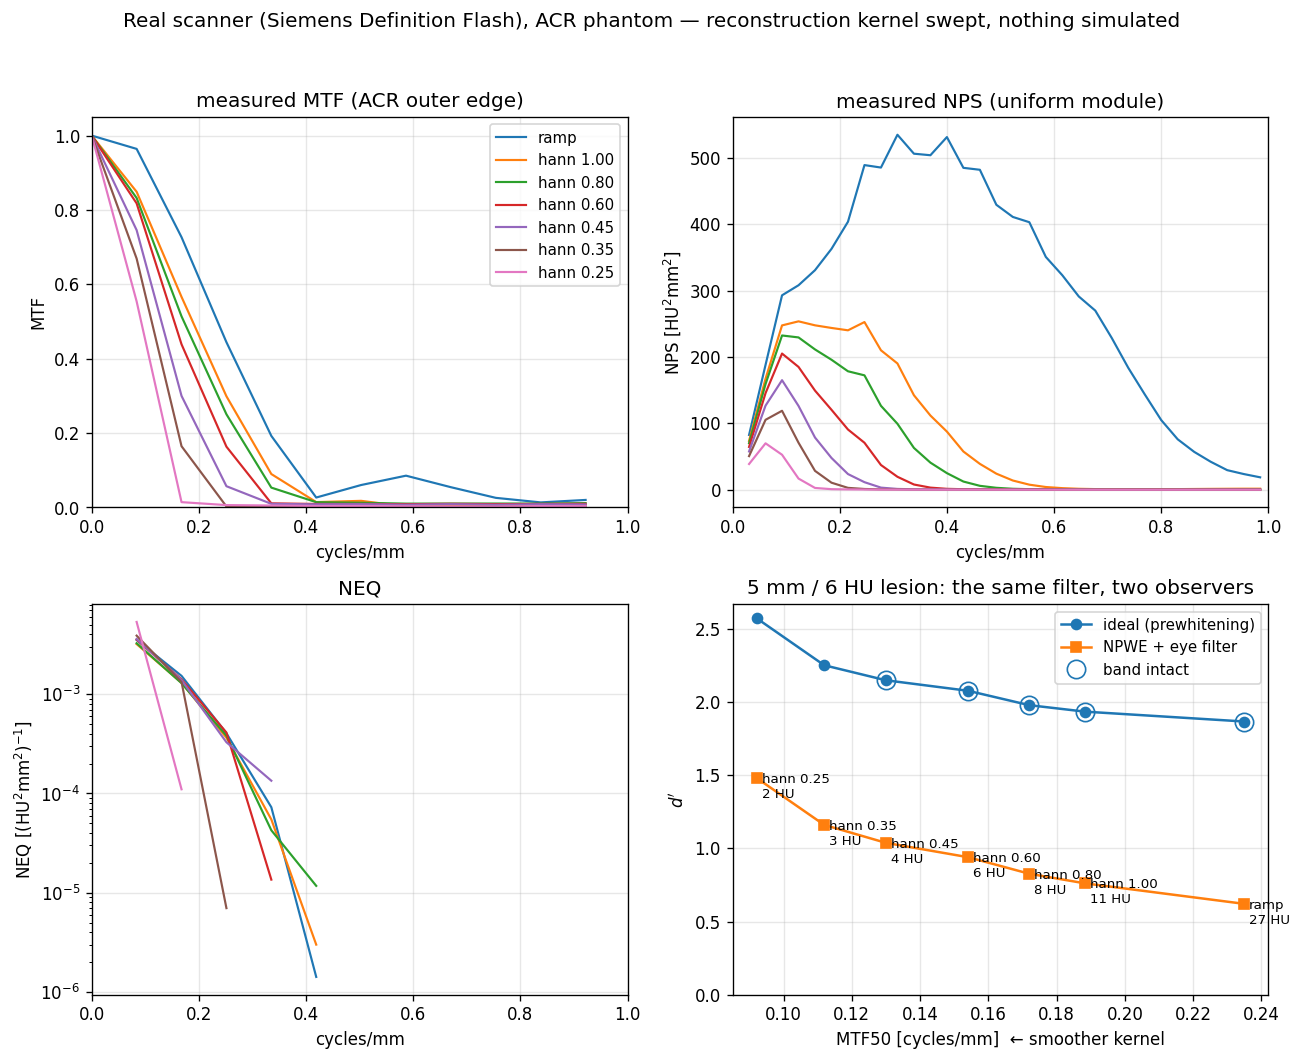
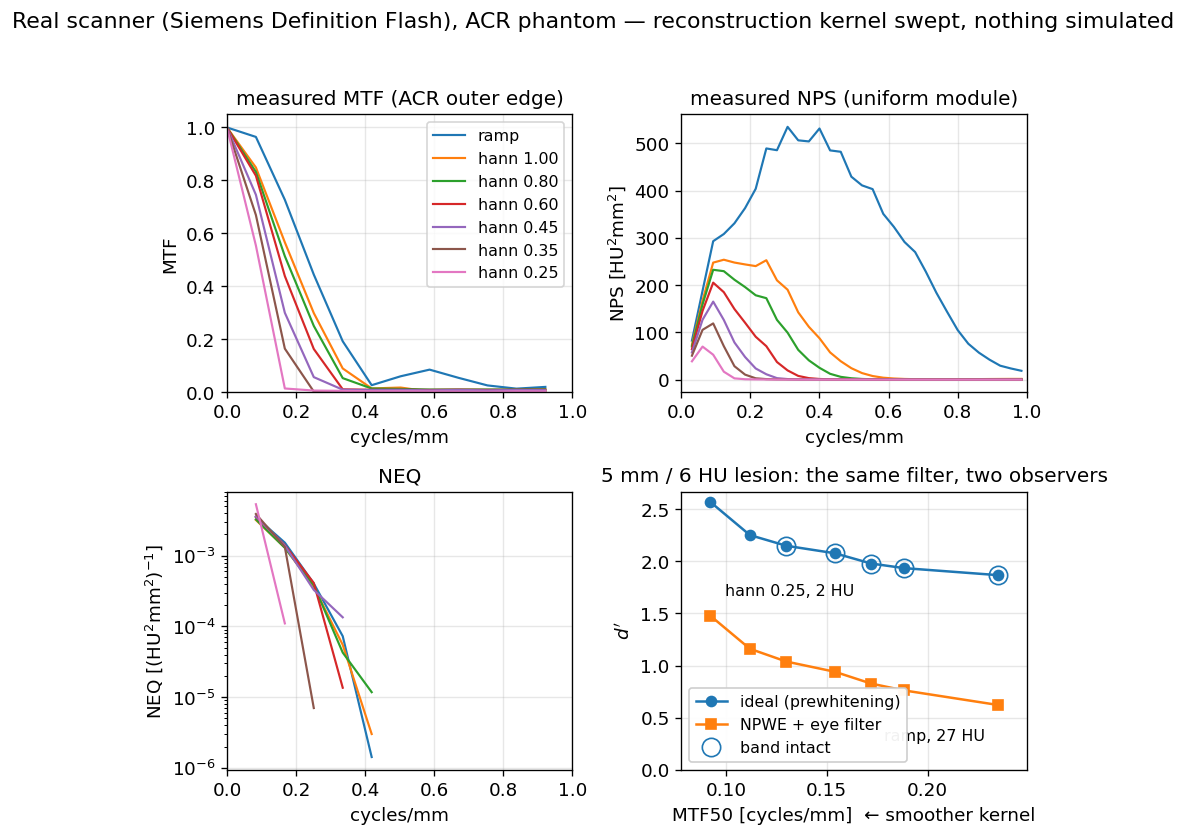
Make the atlas legible after reduction, not just at full size
At 11 inches wide the figure is scaled by 0.57 into a text column, so the 8 pt
per-point annotations landed under 5 pt and could not be read -- which is what
the author saw. Drawn at 7.8 x 6.8 inches the reduction is mild, and the type
is set explicitly: 11 pt base, 12 pt panel titles, 9.5 pt legends and labels.

The detectability panel then had three collisions that only appear once the
type is large enough to matter. Seven per-point annotations overlapped each
other and the legend, so only the two ends are labelled now; they carry the
range, and Table 2 of the manuscript carries all seven exactly. The legend
covered the ideal-observer curve wherever it was placed except the floor, so
it sits bottom-left. And both end labels were pushed off the axes because
rows[0] is the ramp, which is the *rightmost* point in MTF50, not the leftmost
-- the horizontal alignments were the wrong way round.

Layout only; no number changes.

diff --git a/examples/acr_atlas.py b/examples/acr_atlas.py
@@ -232,7 +232,8 @@ def main() -> int:
 
     (OUTDIR / "acr_atlas.json").write_text(json.dumps(rows, indent=2))
 
-    fig, axgrid = plt.subplots(2, 2, figsize=(11, 8.6))
+    plt.rcParams.update({"font.size": 11, "axes.titlesize": 12, "figure.dpi": 300})
+    fig, axgrid = plt.subplots(2, 2, figsize=(7.8, 6.8))
     axes = axgrid.ravel()
     for label, (f, m, nf, npsr, qf, q) in curves.items():
         axes[0].plot(f, m, lw=1.3, label=label)
@@ -242,7 +243,7 @@ def main() -> int:
     axes[0].set_ylabel("MTF")
     axes[0].set_xlim(0, 1)
     axes[0].set_ylim(0, 1.05)
-    axes[0].legend(fontsize=9)
+    axes[0].legend(fontsize=9.5)
     axes[0].grid(alpha=0.3)
     axes[0].set_title("measured MTF (ACR outer edge)")
     axes[1].set_xlabel("cycles/mm")
@@ -266,19 +267,29 @@ def main() -> int:
     axes[3].plot(mtf50, d_i, "o-", label="ideal (prewhitening)")
     axes[3].plot(mtf50, d_n, "s-", label="NPWE + eye filter")
     axes[3].plot(mtf50[intact], d_i[intact], "o", ms=11, mfc="none", mec="C0", label="band intact")
-    for r, x, y in zip(rows, mtf50, d_n, strict=True):
+    # Only the two ends are labelled. At a type size that survives reduction to a text
+    # column, seven annotations collide with each other and with the legend; the ends
+    # carry the range, and Table 2 of the manuscript carries all seven exactly.
+    # rows[0] is the ramp, which is the *rightmost* point (highest MTF50), and the
+    # last row is hann 0.25 at the left. Each label is pushed away from its own edge.
+    ends = ((0, -8, -14, "right", "top"), (len(rows) - 1, 9, 10, "left", "bottom"))
+    for idx, dx, dy, ha, va in ends:
+        r = rows[idx]
         axes[3].annotate(
-            f"{r['label']}\n{r['noise_sd']:.0f} HU",
-            (x, y),
-            fontsize=8,
+            f"{r['label']}, {r['noise_sd']:.0f} HU",
+            (mtf50[idx], d_n[idx]),
+            fontsize=9.5,
             textcoords="offset points",
-            xytext=(3, -12),
+            xytext=(dx, dy),
+            ha=ha,
+            va=va,
         )
     axes[3].set_xlabel("MTF50 [cycles/mm]  ← smoother kernel")
     axes[3].set_ylabel(r"$d'$")
     axes[3].set_ylim(0, None)
+    axes[3].margins(x=0.10)
     axes[3].grid(alpha=0.3)
-    axes[3].legend(fontsize=9)
+    axes[3].legend(fontsize=9.5, loc="lower left", framealpha=0.95)
     axes[3].set_title(
         f"{LESION_DIAMETER_MM:.0f} mm / {LESION_CONTRAST_HU:.0f} HU lesion: "
         "the same filter, two observers"
